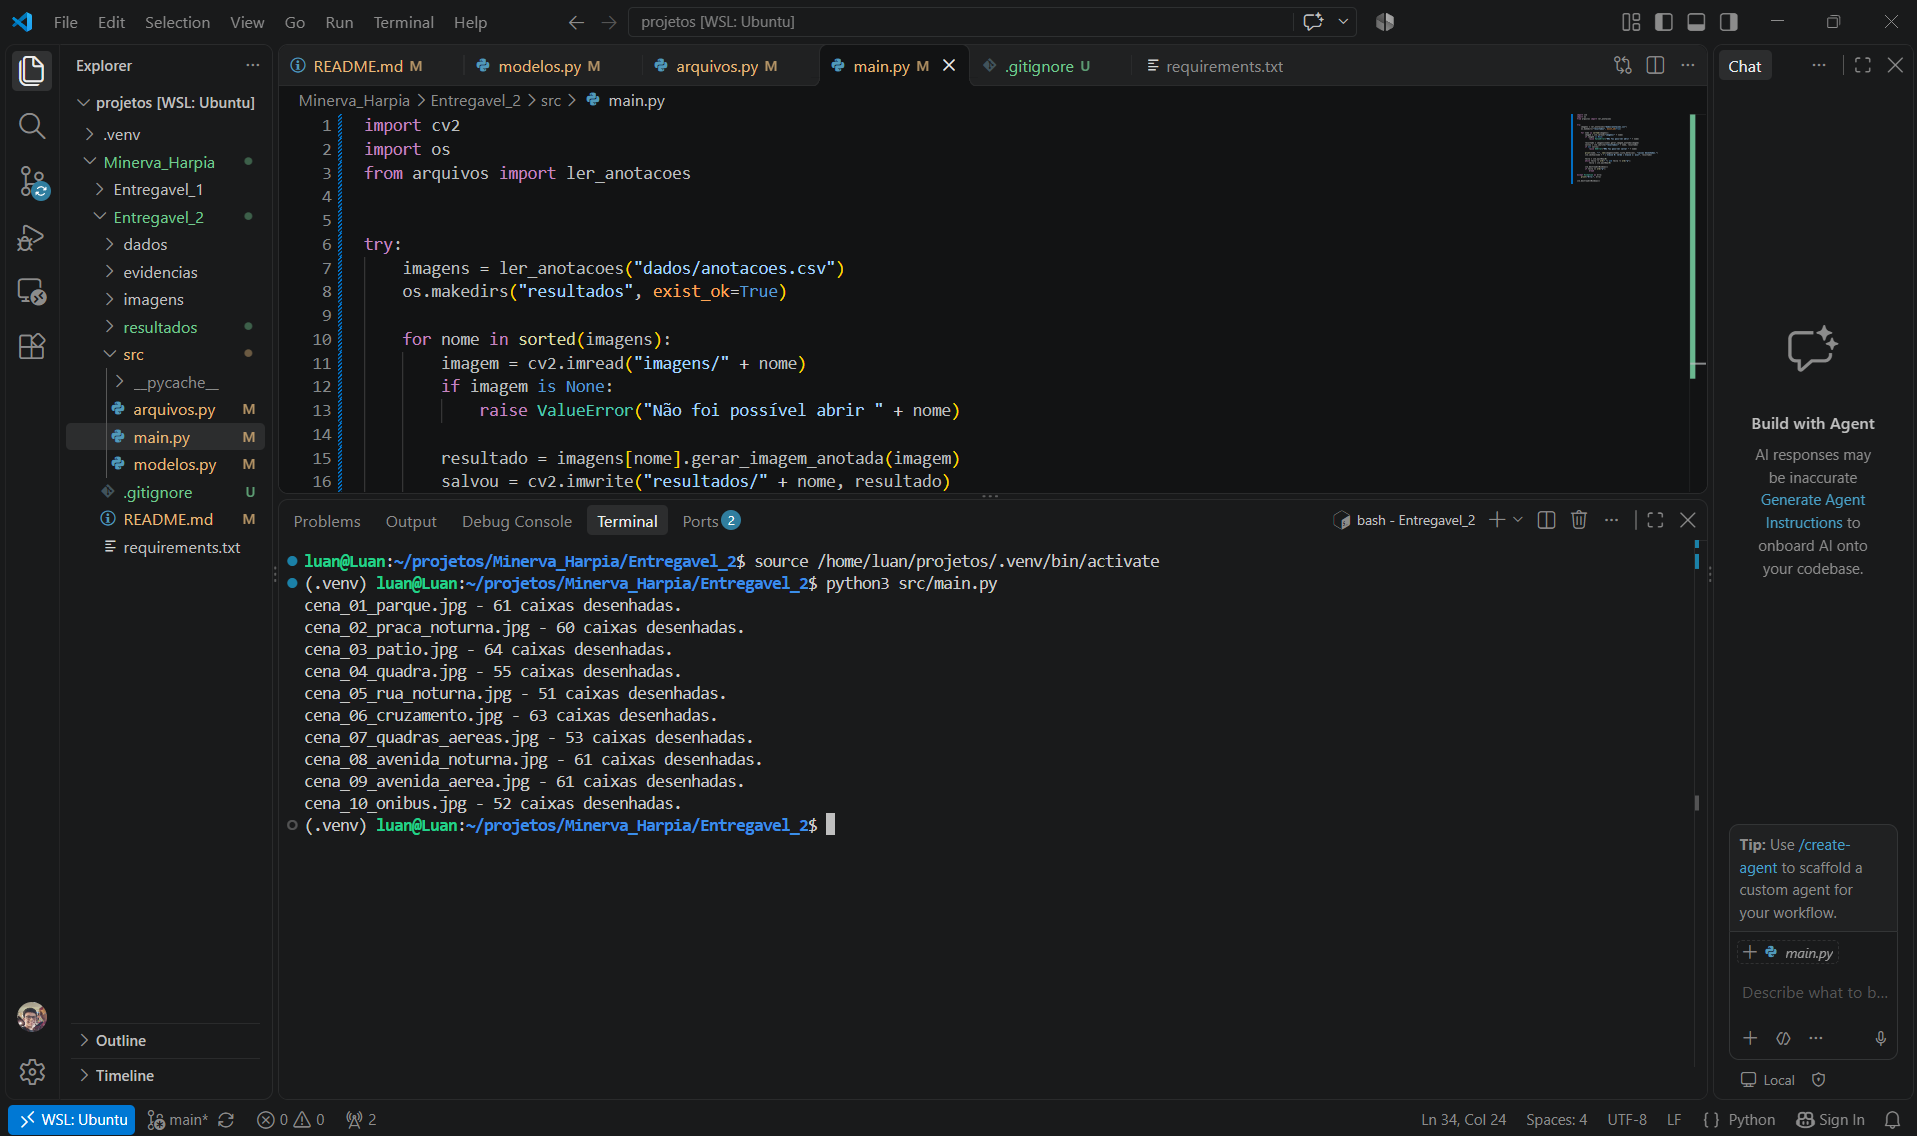
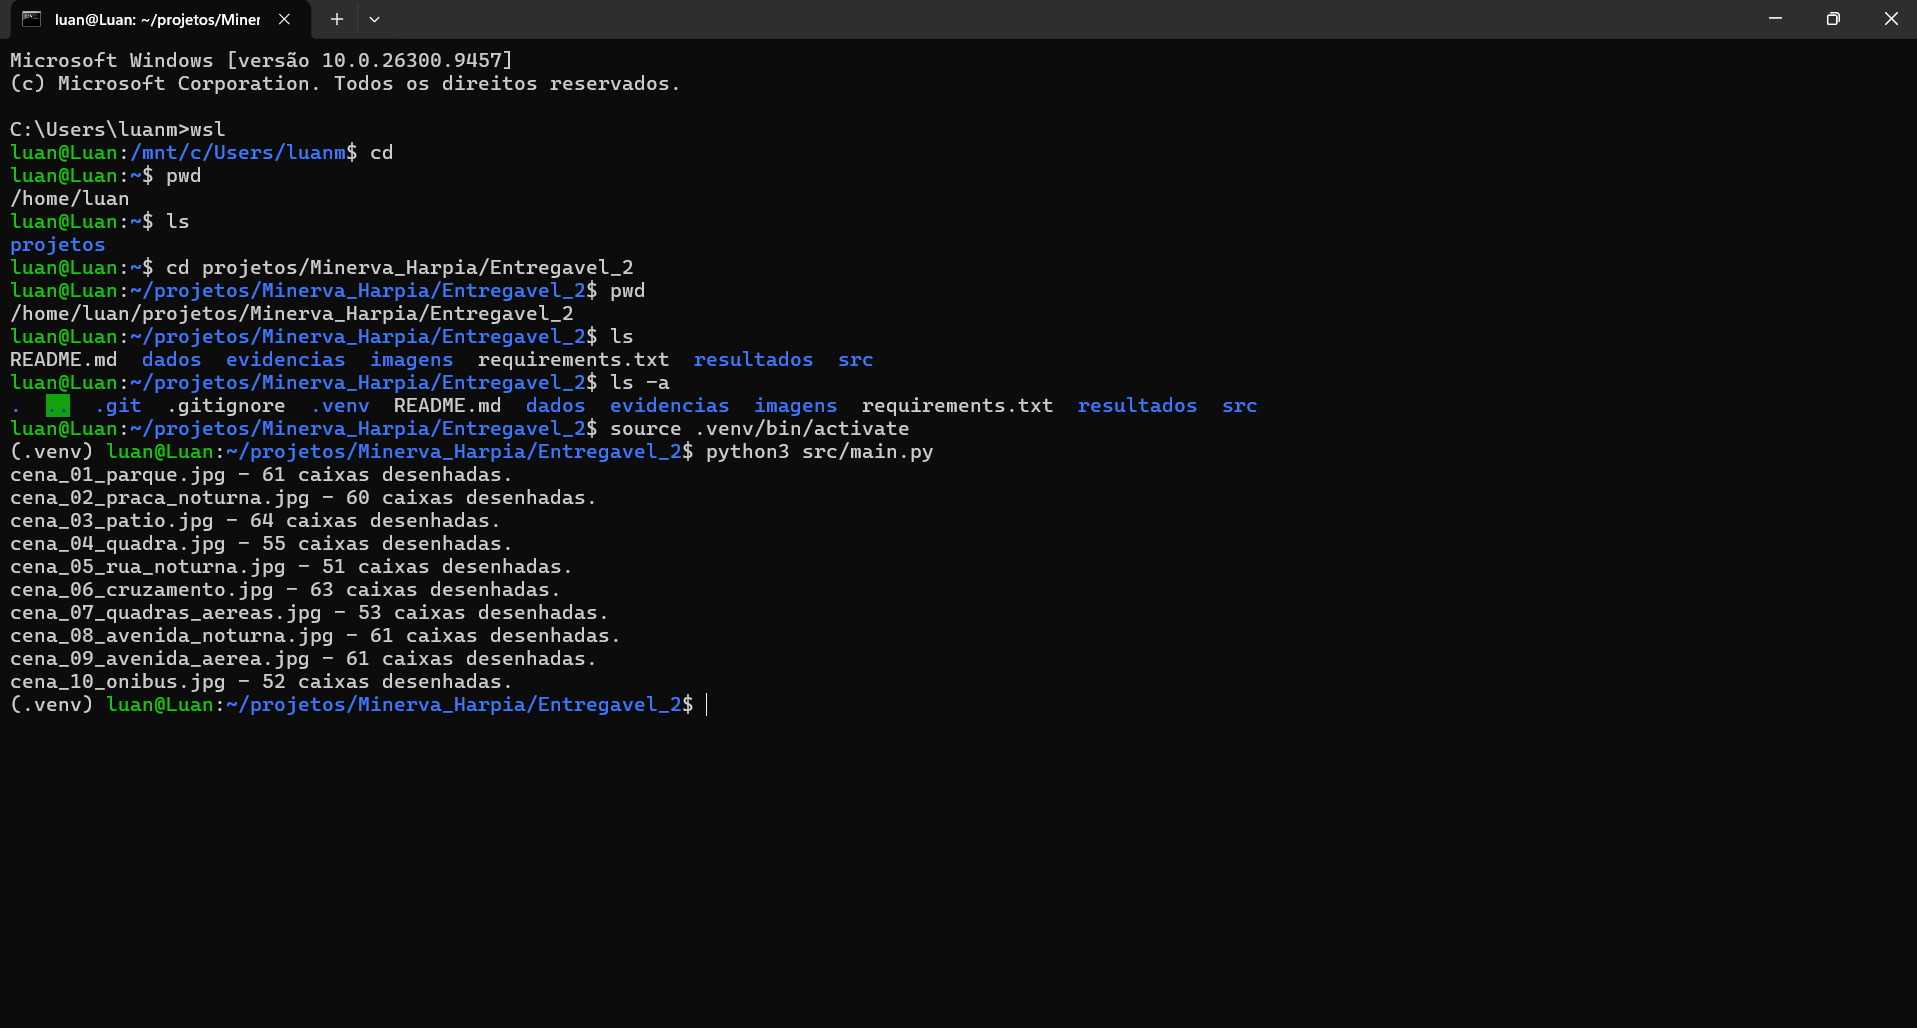
Códigos comentados. README.md atualizado.

diff --git a/src/main.py b/src/main.py
@@ -1,34 +1,55 @@
+# O OpenCV carrega, salva e exibe as imagens.
 import cv2
+# A biblioteca os será usada para criar a pasta de resultados.
 import os
+# Importa a função que lê o CSV e agrupa as detecções por imagem.
 from arquivos import ler_anotacoes
 
 
+# O try permite tratar as exceções no bloco except, ao final.
 try:
+    # Lê as anotações e recebe um dicionário de objetos ImagemAnotada.
     imagens = ler_anotacoes("dados/anotacoes.csv")
-    os.makedirs("resultados", exist_ok=True)
+    # exist_ok=True permite usar a pasta caso ela já exista.
+    os.makedirs("resultados", exist_ok=True)  # Cria a pasta se ela não existir.
 
+    # sorted organiza os nomes das imagens em ordem alfabética.
     for nome in sorted(imagens):
+        # Carrega a imagem original que está na pasta imagens.
         imagem = cv2.imread("imagens/" + nome)
+        # imread retorna None quando não consegue abrir a imagem.
         if imagem is None:
             raise ValueError("Não foi possível abrir " + nome)
 
+        # O objeto desta imagem prepara uma cópia com todas as suas caixas.
         resultado = imagens[nome].gerar_imagem_anotada(imagem)
+        # Salva o resultado antes de exibir a janela, usando o nome original.
         salvou = cv2.imwrite("resultados/" + nome, resultado)
+        # O retorno de imwrite informa se a gravação funcionou.
         if not salvou:
             raise OSError("Não foi possível salvar " + nome)
 
+        # len conta quantas detecções foram desenhadas nesta imagem.
         print(nome, "-", len(imagens[nome].lista_deteccao), "caixas desenhadas.")
+        # O título da janela mostra o nome da imagem e a legenda das cores.
         cv2.imshow(nome + " | Classe 0: verde | Classe 1: azul", resultado)
 
+        # O argumento 0 faz waitKey aguardar uma tecla sem limite de tempo.
         tecla = cv2.waitKey(0)
+        # ord retorna o código do caractere para compará-lo com a tecla recebida.
+        # Se a tecla for diferente de espaço e q, continua esperando nesta imagem.
         while tecla != ord(" ") and tecla != ord("q"):
             tecla = cv2.waitKey(0)
 
+        # Fecha a janela atual depois que espaço ou q for pressionado.
         cv2.destroyAllWindows()
+        # q interrompe o laço for; a imagem atual já foi salva.
         if tecla == ord("q"):
             break
 
 except Exception as erro:
+    # Mostra no terminal a mensagem da exceção que ocorreu no bloco try.
     print("Erro:", erro)
 
+# Fecha as janelas que ainda estiverem abertas ao finalizar o programa.
 cv2.destroyAllWindows()

diff --git a/src/modelos.py b/src/modelos.py
@@ -1,8 +1,12 @@
+# O OpenCV fornece as funções para desenhar nas imagens.
 import cv2
 
 
+# Cada objeto desta classe representa uma caixa descrita no CSV.
 class Deteccao:
+    # __init__ é chamado automaticamente quando criamos um objeto desta classe.
     def __init__(self, classe_id, x_min, y_min, x_max, y_max):
+        # self permite guardar os valores no próprio objeto de detecção.
         self.classe_id = classe_id
         self.x_min = x_min
         self.y_min = y_min
@@ -10,35 +14,46 @@ class Deteccao:
         self.y_max = y_max
 
     def desenhar(self, imagem):
+        # As cores do OpenCV usam a ordem BGR: azul, verde e vermelho.
         if self.classe_id == 0:
-            cor = (0, 255, 0)
+            cor = (0, 255, 0)  # Verde.
         else:
-            cor = (255, 0, 0)
+            cor = (255, 0, 0)  # Azul.
 
+        # Desenha diretamente na imagem recebida, entre os dois cantos da caixa.
+        # Os pontos usam (x, y), e o 2 indica a espessura da linha em pixels.
         cv2.rectangle(imagem, (self.x_min, self.y_min),
-                      (self.x_max, self.y_max), cor, 1)
+                      (self.x_max, self.y_max), cor, 2)
 
 
+# Agrupa o nome de uma imagem e todas as detecções que pertencem a ela.
 class ImagemAnotada:
     def __init__(self, nome_imagem):
         self.nome_imagem = nome_imagem
+        # A lista começa vazia e receberá objetos da classe Deteccao.
         self.lista_deteccao = []
 
     def insere_deteccao(self, classe_id, x_min, y_min, x_max, y_max):
+        # Cria uma detecção e adiciona esse objeto à lista da imagem.
         self.lista_deteccao.append(
             Deteccao(classe_id, x_min, y_min, x_max, y_max)
         )
 
     def gerar_imagem_anotada(self, imagem):
+        # Desenhamos na cópia para preservar a imagem recebida.
         copia = imagem.copy()
+        # shape[0] é a altura (linhas), e shape[1] é a largura (colunas).
         altura = imagem.shape[0]
         largura = imagem.shape[1]
 
         for deteccao in self.lista_deteccao:
+            # Confere se os cantos estão ordenados e dentro dos limites da imagem.
             if not (0 <= deteccao.x_min < deteccao.x_max < largura
                     and 0 <= deteccao.y_min < deteccao.y_max < altura):
                 raise ValueError("Coordenadas inválidas em " + self.nome_imagem)
 
+            # Cada objeto Deteccao desenha sua própria caixa na cópia.
             deteccao.desenhar(copia)
 
+        # Devolve a imagem com todas as caixas desenhadas.
         return copia

diff --git a/src/arquivos.py b/src/arquivos.py
@@ -1,37 +1,52 @@
+# A biblioteca csv permite ler as linhas e colunas do arquivo de anotações.
 import csv
+# Importa a classe que reúne as detecções de cada imagem.
 from modelos import ImagemAnotada
 
 
 def ler_anotacoes(caminho_csv):
+    # Este dicionário associa cada nome de imagem a um objeto ImagemAnotada.
     imagens = {}
 
+    # O with fecha o arquivo automaticamente ao sair deste bloco.
     with open(caminho_csv, "r", encoding="utf-8") as arquivo:
+        # Os campos do CSV são separados por vírgulas.
         leitor = csv.reader(arquivo, delimiter=",")
-        cabecalho = next(leitor, None)
+        cabecalho = next(leitor, None)  # Lê a primeira linha, com os nomes das colunas.
 
+        # Confere os nomes das colunas e a ordem em que devem aparecer.
         if cabecalho != ["imagem", "classe_id", "x_min", "y_min", "x_max", "y_max"]:
             raise ValueError("O cabeçalho do CSV está incorreto.")
 
+        # Cada linha após o cabeçalho representa uma detecção.
         for linha in leitor:
+            # São seis campos: nome da imagem, classe e quatro coordenadas.
             if len(linha) != 6:
                 raise ValueError("Cada linha do CSV deve ter 6 campos.")
 
+            # O índice 0 indica a primeira coluna, que contém o nome da imagem.
             nome = linha[0]
+            # Os valores chegam como texto; int os converte para números inteiros.
             classe_id = int(linha[1])
             x_min = int(linha[2])
             y_min = int(linha[3])
             x_max = int(linha[4])
             y_max = int(linha[5])
 
+            # As anotações deste trabalho aceitam somente as classes 0 e 1.
             if classe_id != 0 and classe_id != 1:
                 raise ValueError("As classes devem ser 0 ou 1.")
 
+            # Cria o objeto da imagem apenas na primeira ocorrência desse nome.
             if nome not in imagens:
                 imagens[nome] = ImagemAnotada(nome)
 
+            # Adiciona a caixa ao objeto correspondente à imagem desta linha.
             imagens[nome].insere_deteccao(classe_id, x_min, y_min, x_max, y_max)
 
+    # Não há imagens para processar se nenhuma anotação foi lida.
     if len(imagens) == 0:
         raise ValueError("O CSV não contém anotações.")
 
+    # Devolve o dicionário para o main.py acessar as imagens e suas detecções.
     return imagens

diff --git a/README.md b/README.md
@@ -1,0 +1,94 @@
+# Entregável 2 — Anotações de imagens com OpenCV
+
+**Autor:** Luan Machado Ferreira
+
+## Objetivo
+
+Criar um visualizador que leia as anotações de `dados/anotacoes.csv`, desenhe as 581 caixas fornecidas nas dez imagens de `imagens/` e exiba uma imagem por vez.
+
+Os resultados são salvos em `resultados/`, mantendo os nomes e as resoluções originais. As imagens de entrada são preservadas. As imagens são processadas em ordem alfabética, e o terminal informa o nome de cada arquivo e sua quantidade de caixas.
+
+## Dependências
+
+- Python 3.
+- `opencv-python`, importado como `cv2`, para trabalhar com as imagens.
+- Ambiente com suporte a janelas gráficas.
+
+A biblioteca `csv`, usada para ler as anotações, e a biblioteca `os` já acompanham o Python. O pacote `opencv-python` está listado em `requirements.txt`.
+
+## Instruções de execução
+
+Abra o terminal na **raiz do projeto**, onde estão `src/`, `dados/`, `imagens/` e `requirements.txt`.
+
+### Linux ou WSL
+
+Na primeira execução, crie o ambiente virtual, ative-o, instale a dependência e execute:
+
+```bash
+python3 -m venv .venv
+source .venv/bin/activate
+python -m pip install -r requirements.txt
+python src/main.py
+```
+
+Nas próximas execuções, abra um terminal na raiz do projeto e utilize:
+
+```bash
+source .venv/bin/activate
+python src/main.py
+```
+
+#### Aviso de fontes no WSL
+
+Se aparecer `QFontDatabase: Cannot find font directory`, o Qt não encontrou a pasta de fontes. Na raiz do projeto, com a `.venv` ativada, instale as fontes e copie-as para a pasta indicada pelo aviso.
+
+O exemplo abaixo usa Python 3.14. Se o aviso indicar outra versão, substitua `python3.14` nos caminhos pela versão mostrada na mensagem.
+
+```bash
+sudo apt install fonts-dejavu-core
+mkdir -p .venv/lib/python3.14/site-packages/cv2/qt/fonts
+cp /usr/share/fonts/truetype/dejavu/*.ttf .venv/lib/python3.14/site-packages/cv2/qt/fonts/
+```
+
+Depois, execute `python src/main.py` novamente. As fontes ficam dentro da `.venv`; se recriar o ambiente, repita a cópia.
+
+### Windows — PowerShell
+
+Na primeira execução, crie o ambiente virtual, instale a dependência e execute:
+
+```powershell
+py -3 -m venv .venv
+.\.venv\Scripts\python.exe -m pip install -r requirements.txt
+.\.venv\Scripts\python.exe src\main.py
+```
+
+Nas próximas execuções, a partir da raiz do projeto:
+
+```powershell
+.\.venv\Scripts\python.exe src\main.py
+```
+
+Os comandos do Windows utilizam diretamente o Python do ambiente virtual. Se o comando `py` não estiver disponível, crie o ambiente com `python -m venv .venv` e continue com os comandos seguintes.
+
+Uma execução completa gera dez imagens anotadas em `resultados/`.
+
+## Controles do visualizador
+
+Clique na janela da imagem para que ela receba as teclas.
+
+| Tecla | Ação |
+| --- | --- |
+| Espaço | Avança para a próxima imagem. |
+| `q` | Encerra o programa após salvar a imagem atual. |
+| Outras teclas | Mantêm a imagem atual. |
+
+Ao chegar ao fim das imagens, as janelas são fechadas. Se `q` for pressionado antes do fim, são salvas as imagens processadas até a atual.
+
+O título da janela identifica a imagem e apresenta a legenda: **classe 0 em verde** e **classe 1 em azul**. Os IDs das classes são os fornecidos nas anotações.
+
+## Explicação breve das classes
+
+As classes estão definidas em `src/modelos.py`:
+
+- **`Deteccao`:** armazena `classe_id`, `x_min`, `y_min`, `x_max` e `y_max`. O método `desenhar` recebe uma imagem e desenha a caixa correspondente.
+- **`ImagemAnotada`:** armazena o nome da imagem e uma lista de objetos `Deteccao`. O método `insere_deteccao` adiciona uma detecção, e `gerar_imagem_anotada` cria uma cópia da imagem e chama o método `desenhar` de cada detecção.
